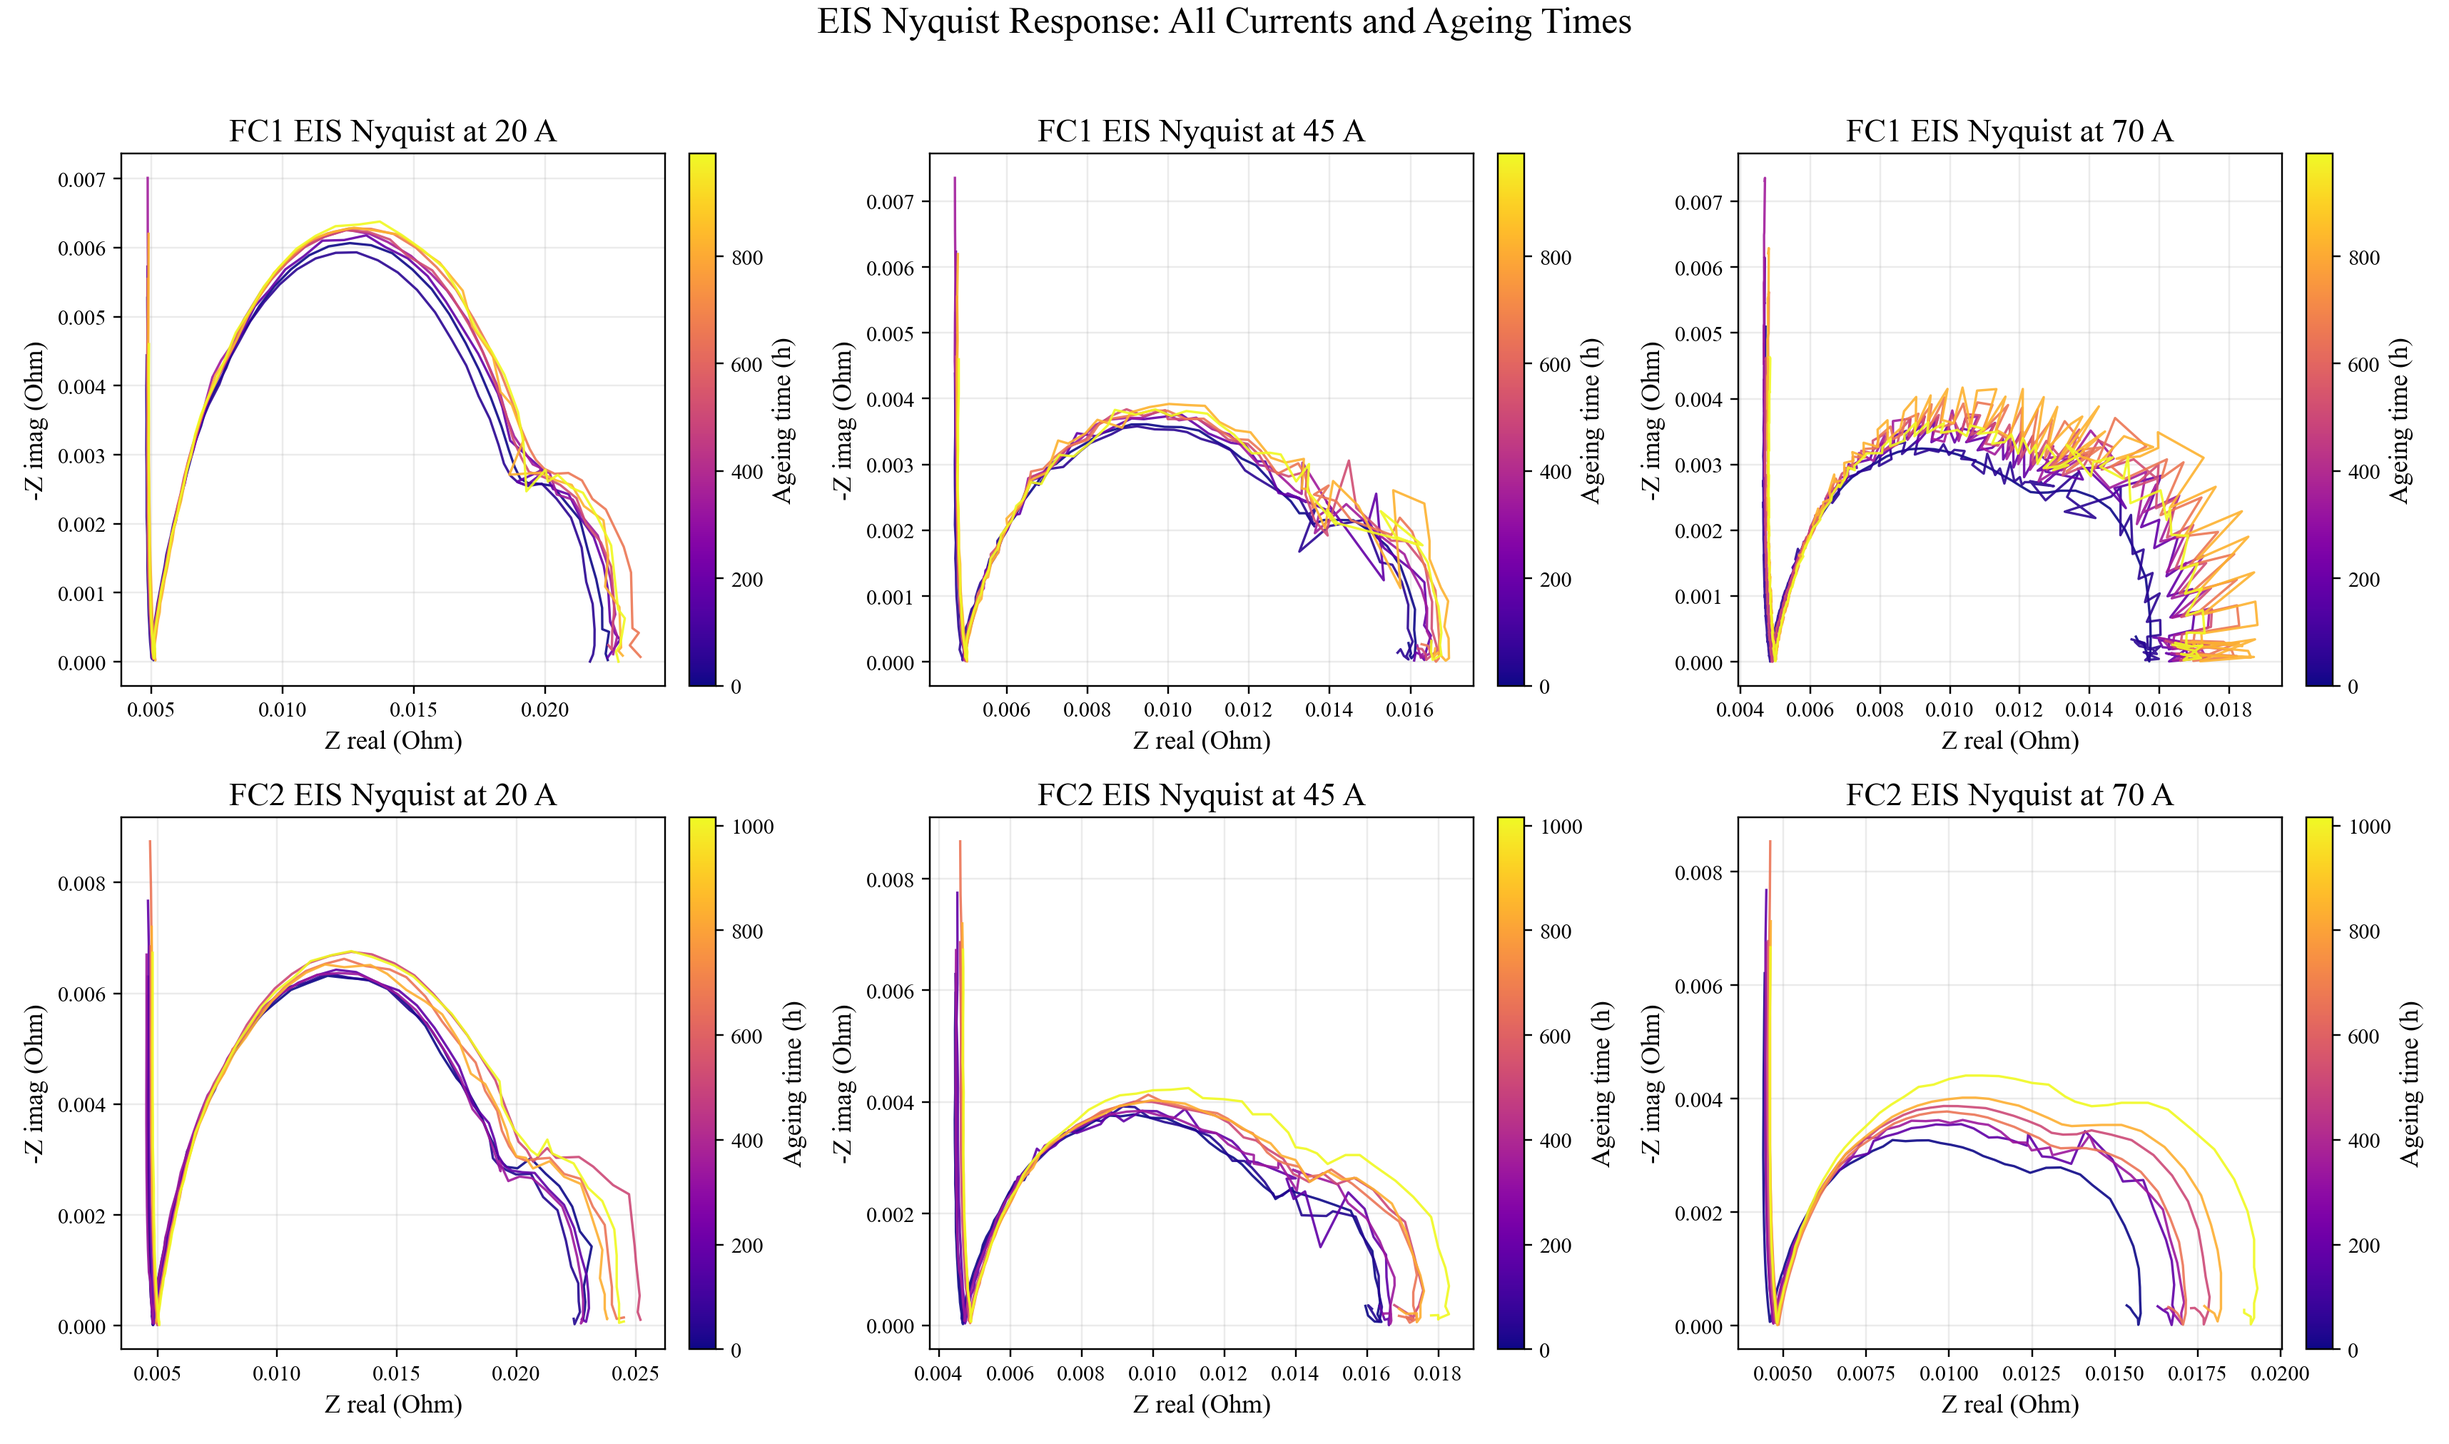
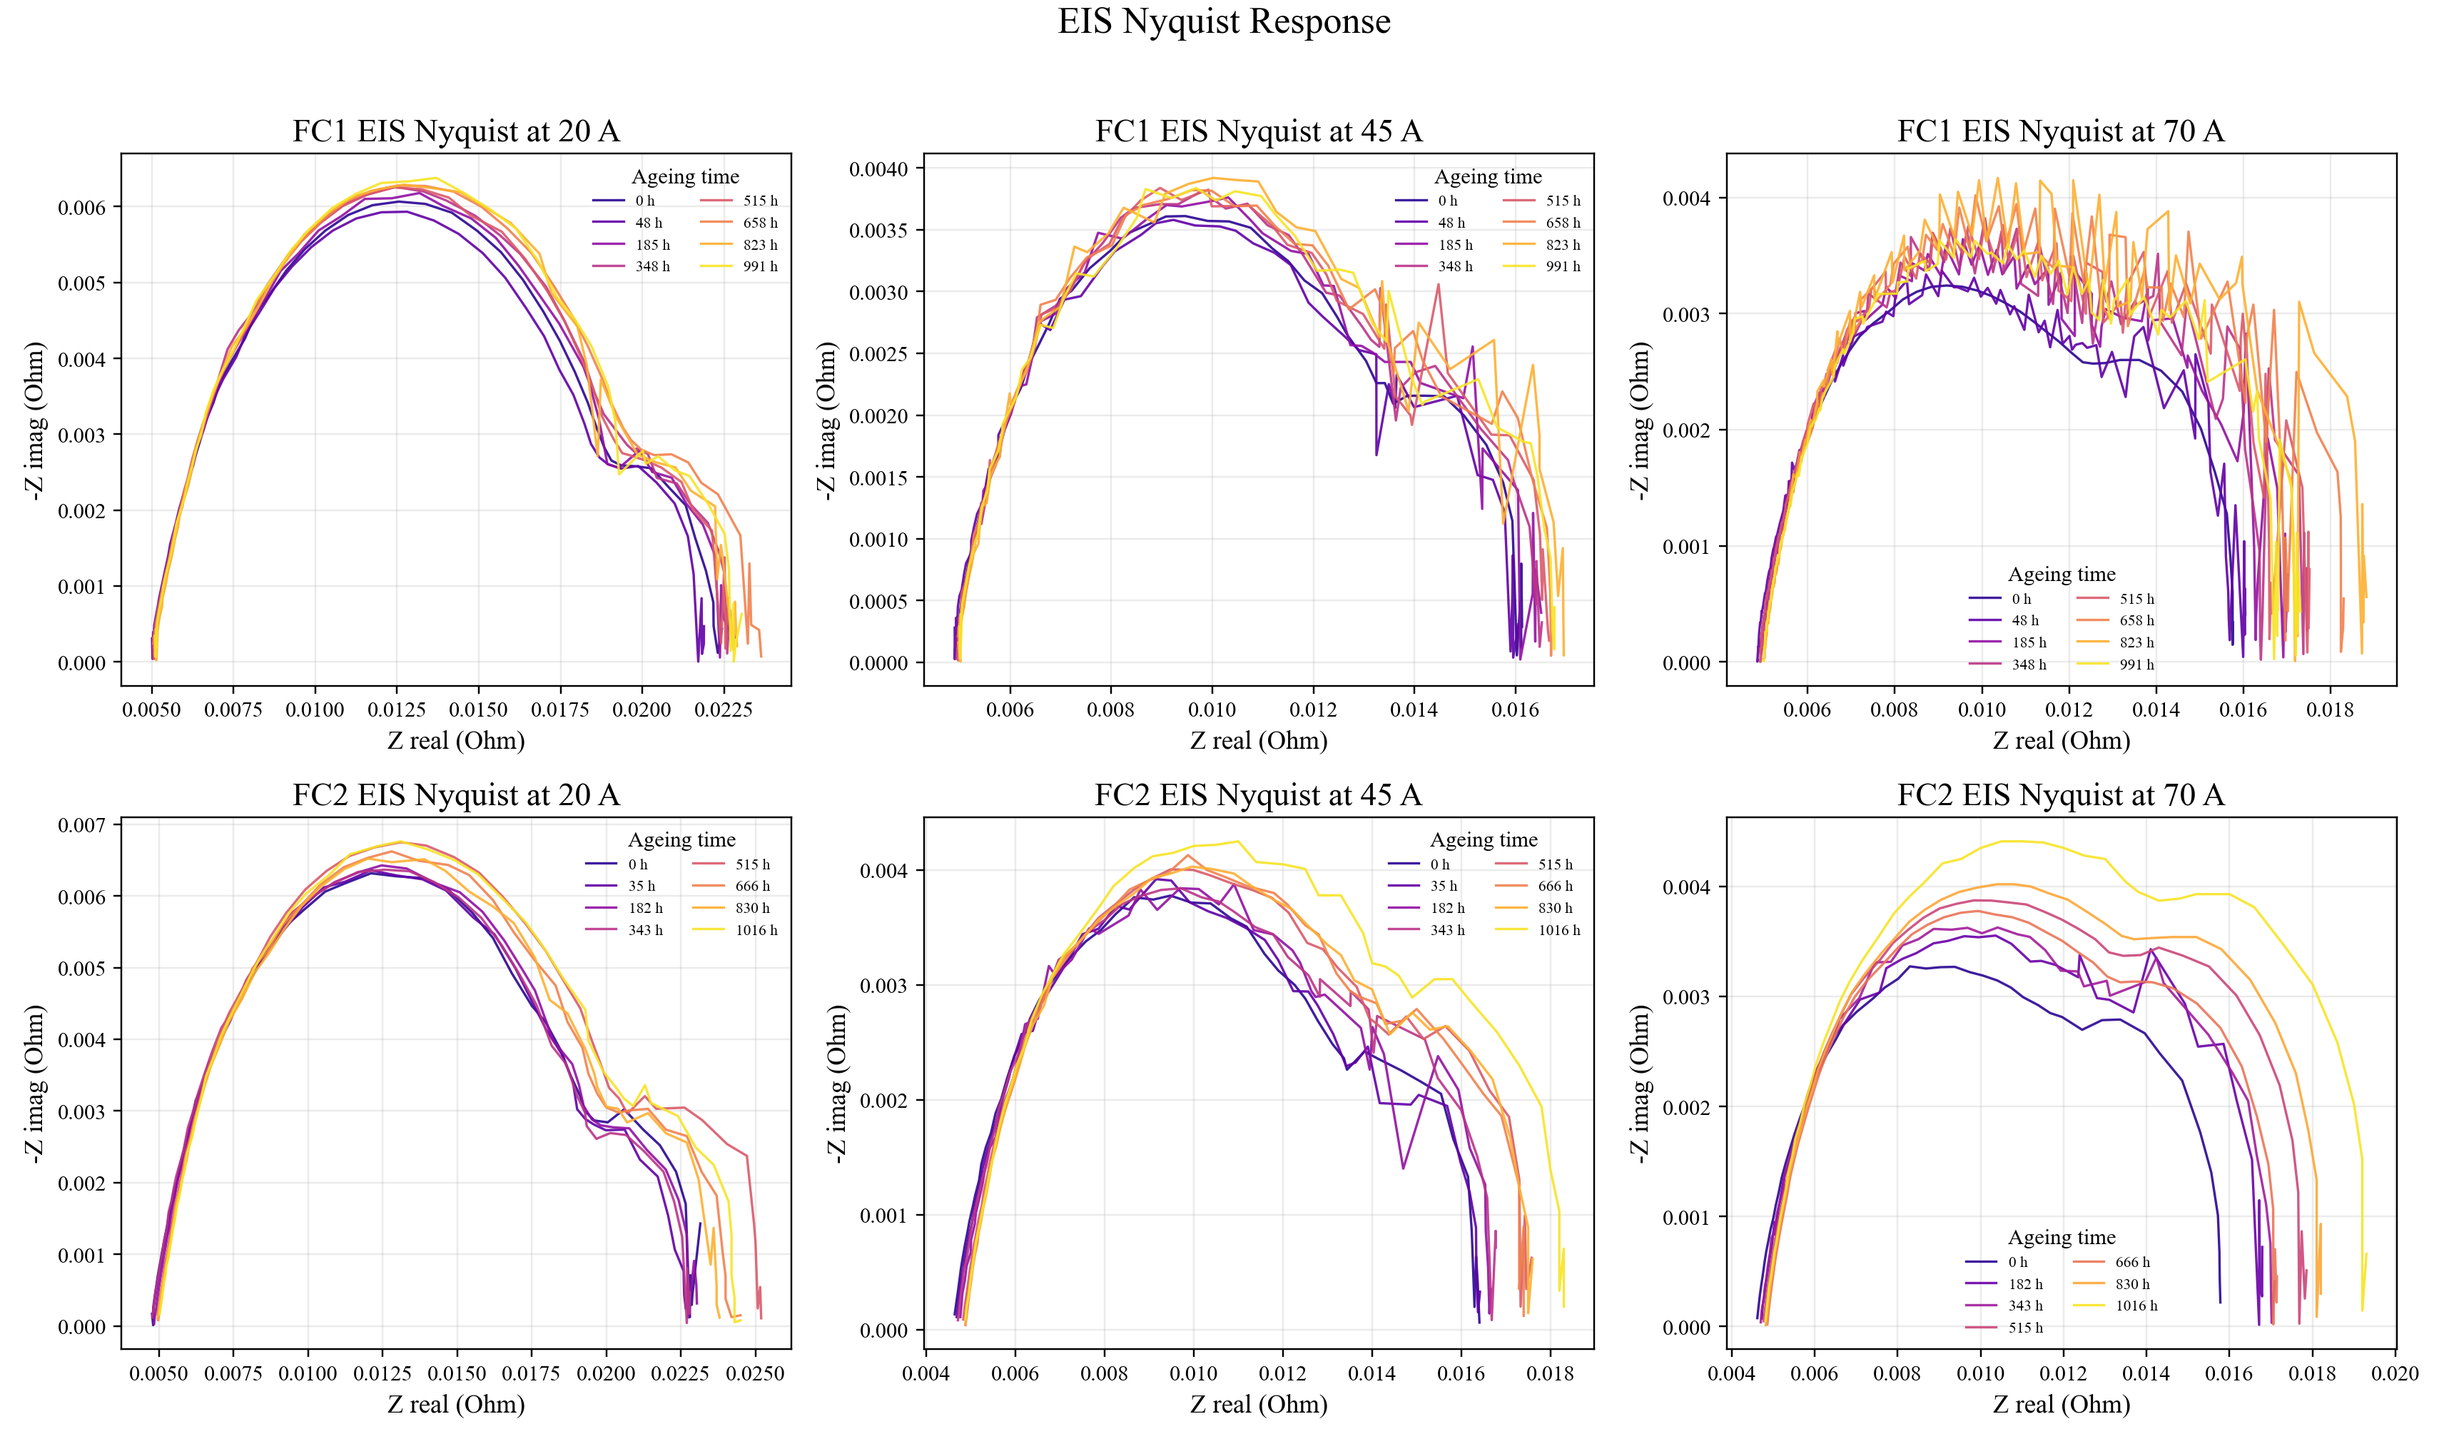
Refine ageing and EIS visualizations

diff --git a/code/analyze_fuel_cell.py b/code/analyze_fuel_cell.py
@@ -1,6 +1,5 @@
 from __future__ import annotations
 
-import math
 import re
 from pathlib import Path
 
@@ -61,6 +60,12 @@ def display_label(label: str) -> str:
         .replace("節캜", "deg C")
         .replace("節?", "2")
     )
+
+
+def safe_filename(label: str) -> str:
+    name = display_label(label)
+    name = re.sub(r"[^A-Za-z0-9]+", "_", name).strip("_")
+    return name.lower()
 
 
 def fuel_cell_from_name(path: Path) -> str:
@@ -182,33 +187,37 @@ def plot_ageing_voltage(ageing: pd.DataFrame) -> None:
     save_figure(fig, "ageing_voltage_degradation.png")
 
 
-def plot_ageing_all_channels(ageing: pd.DataFrame) -> None:
+def plot_ageing_channel_figures(ageing: pd.DataFrame) -> list[tuple[str, str]]:
     numeric_cols = [
         col
         for col in ageing.select_dtypes(include=[np.number]).columns
         if col != "Time (h)"
     ]
-    ncols = 4
-    nrows = math.ceil(len(numeric_cols) / ncols)
-    fig, axes = plt.subplots(nrows, ncols, figsize=(18, 3.0 * nrows), sharex=False)
-    axes = np.ravel(axes)
+    channel_dir = FIGURE_DIR / "ageing_channels"
+    channel_dir.mkdir(parents=True, exist_ok=True)
     colors = {"FC1": "#2563eb", "FC2": "#dc2626"}
+    outputs: list[tuple[str, str]] = []
 
-    for ax, col in zip(axes, numeric_cols):
+    for col in numeric_cols:
+        fig, ax = plt.subplots(figsize=(8.5, 5.2))
         for fc, group in ageing.groupby("Fuel Cell"):
             group = group.sort_values("Time (h)")
             values = group[col].rolling(600, min_periods=1).mean()
-            ax.plot(group["Time (h)"], values, color=colors.get(fc), linewidth=1.0, label=fc)
+            ax.plot(group["Time (h)"], values, color=colors.get(fc), linewidth=1.4, label=fc)
+
         ax.set_title(display_label(col))
         ax.set_xlabel("Time (h)")
-        ax.grid(alpha=0.2)
+        ax.set_ylabel(display_label(col))
+        ax.grid(alpha=0.25)
+        ax.legend(frameon=False)
 
-    for ax in axes[len(numeric_cols) :]:
-        ax.axis("off")
+        filename = f"{safe_filename(col)}.png"
+        fig.tight_layout()
+        fig.savefig(channel_dir / filename, dpi=220)
+        plt.close(fig)
+        outputs.append((display_label(col), f"figures/ageing_channels/{filename}"))
 
-    axes[0].legend(loc="best", frameon=False)
-    fig.suptitle("Ageing Data Overview: All Numeric Channels", y=0.998)
-    save_figure(fig, "ageing_all_channels.png", rect=(0, 0, 1, 0.985))
+    return outputs
 
 
 def plot_polarization(polarization: pd.DataFrame) -> None:
@@ -218,31 +227,42 @@ def plot_polarization(polarization: pd.DataFrame) -> None:
     for ax, (fc, group) in zip(axes, polarization.groupby("Fuel Cell")):
         hours = sorted(group["Test Hour"].unique())
         cmap = plt.get_cmap("viridis")
-        norm = plt.Normalize(min(hours), max(hours))
+        colors = cmap(np.linspace(0.05, 0.95, len(hours)))
 
-        for hour in hours:
+        for hour, color in zip(hours, colors):
             curve = group[group["Test Hour"] == hour].copy()
             curve["J bin"] = curve[j_col].round(2)
             summary = curve.groupby("J bin", as_index=False)["Ustack (V)"].mean()
             ax.plot(
                 summary["J bin"],
                 summary["Ustack (V)"],
-                color=cmap(norm(hour)),
+                color=color,
                 linewidth=1.2,
                 alpha=0.9,
+                label=f"{hour} h",
             )
 
-        ax.set_title(f"{fc} Polarization Curves: All Ageing Times")
+        ax.set_title(f"{fc} Polarization Curves")
         ax.set_xlabel("Current density (A/cm2)")
         ax.grid(alpha=0.25)
-
-        scalar_map = plt.cm.ScalarMappable(cmap=cmap, norm=norm)
-        scalar_map.set_array([])
-        cbar = fig.colorbar(scalar_map, ax=ax, fraction=0.046, pad=0.04)
-        cbar.set_label("Ageing time (h)")
+        ax.legend(title="Ageing time", frameon=False, ncol=2, fontsize=8)
 
     axes[0].set_ylabel("Stack voltage (V)")
     save_figure(fig, "polarization_all_times.png")
+
+
+def capacitive_eis_arc(curve: pd.DataFrame) -> pd.DataFrame:
+    positive = curve[curve["i/oHM"] > 0].copy()
+    negative = curve[curve["i/oHM"] < 0].copy()
+
+    if len(positive) >= len(negative):
+        arc = positive
+        arc["-Z imag (Ohm)"] = arc["i/oHM"]
+    else:
+        arc = negative
+        arc["-Z imag (Ohm)"] = -arc["i/oHM"]
+
+    return arc.sort_values("r/oHM")
 
 
 def plot_eis(eis: pd.DataFrame) -> None:
@@ -256,33 +276,59 @@ def plot_eis(eis: pd.DataFrame) -> None:
             group = eis[(eis["Fuel Cell"] == fc) & (eis["Current (A)"] == current)]
             hours = sorted(group["Test Hour"].unique())
             cmap = plt.get_cmap("plasma")
-            norm = plt.Normalize(min(hours), max(hours))
+            colors = cmap(np.linspace(0.05, 0.95, len(hours)))
 
-            for hour in hours:
-                curve = group[group["Test Hour"] == hour].sort_values("fREQUENCY/hZ")
+            for hour, color in zip(hours, colors):
+                curve = group[group["Test Hour"] == hour]
+                arc = capacitive_eis_arc(curve)
                 ax.plot(
-                    curve["r/oHM"],
-                    curve["i/oHM"].abs(),
-                    color=cmap(norm(hour)),
+                    arc["r/oHM"],
+                    arc["-Z imag (Ohm)"],
+                    color=color,
                     linewidth=1.1,
                     alpha=0.9,
+                    label=f"{hour} h",
                 )
 
             ax.set_title(f"{fc} EIS Nyquist at {current} A")
             ax.set_xlabel("Z real (Ohm)")
             ax.set_ylabel("-Z imag (Ohm)")
             ax.grid(alpha=0.25)
+            ax.legend(title="Ageing time", frameon=False, fontsize=7, ncol=2)
 
-            scalar_map = plt.cm.ScalarMappable(cmap=cmap, norm=norm)
-            scalar_map.set_array([])
-            cbar = fig.colorbar(scalar_map, ax=ax, fraction=0.046, pad=0.04)
-            cbar.set_label("Ageing time (h)")
-
-    fig.suptitle("EIS Nyquist Response: All Currents and Ageing Times", y=0.995)
+    fig.suptitle("EIS Nyquist Response", y=0.995)
     save_figure(fig, "eis_nyquist_all_currents.png", rect=(0, 0, 1, 0.975))
 
 
-def write_results_readme(summary: pd.DataFrame) -> None:
+PARAMETER_DESCRIPTIONS = {
+    "U1 (V)": "Voltage of cell 1.",
+    "U2 (V)": "Voltage of cell 2.",
+    "U3 (V)": "Voltage of cell 3.",
+    "U4 (V)": "Voltage of cell 4.",
+    "U5 (V)": "Voltage of cell 5.",
+    "Utot (V)": "Total stack voltage.",
+    "J (A/cm2)": "Current density normalized by active area.",
+    "I (A)": "Stack current.",
+    "TinH2 (deg C)": "Hydrogen inlet temperature.",
+    "ToutH2 (deg C)": "Hydrogen outlet temperature.",
+    "TinAIR (deg C)": "Air inlet temperature.",
+    "ToutAIR (deg C)": "Air outlet temperature.",
+    "TinWAT (deg C)": "Cooling-water inlet temperature.",
+    "ToutWAT (deg C)": "Cooling-water outlet temperature.",
+    "PinAIR (mbara)": "Air inlet absolute pressure.",
+    "PoutAIR (mbara)": "Air outlet absolute pressure.",
+    "PoutH2 (mbara)": "Hydrogen outlet absolute pressure.",
+    "PinH2 (mbara)": "Hydrogen inlet absolute pressure.",
+    "DinH2 (l/mn)": "Hydrogen inlet flow rate.",
+    "DoutH2 (l/mn)": "Hydrogen outlet flow rate.",
+    "DinAIR (l/mn)": "Air inlet flow rate.",
+    "DoutAIR (l/mn)": "Air outlet flow rate.",
+    "DWAT (l/mn)": "Cooling-water flow rate.",
+    "HrAIRFC (%)": "Relative humidity of the air feed.",
+}
+
+
+def write_results_readme(summary: pd.DataFrame, ageing_figures: list[tuple[str, str]]) -> None:
     rounded = summary.round(4)
     header = "| " + " | ".join(rounded.columns) + " |"
     divider = "| " + " | ".join(["---"] * len(rounded.columns)) + " |"
@@ -304,9 +350,22 @@ def write_results_readme(summary: pd.DataFrame) -> None:
         "## Figures",
         "",
         "- `figures/ageing_voltage_degradation.png`: stack voltage and cell imbalance during ageing",
-        "- `figures/ageing_all_channels.png`: overview of every numeric ageing channel",
+        "- `figures/ageing_channels/`: individual ageing plots for every numeric channel",
         "- `figures/polarization_all_times.png`: polarization curves at every available ageing time",
         "- `figures/eis_nyquist_all_currents.png`: EIS Nyquist curves for every available current and ageing time",
+        "",
+        "## Ageing Parameter Notes",
+        "",
+        "| Parameter | Meaning |",
+        "| --- | --- |",
+        *[
+            f"| {parameter} | {PARAMETER_DESCRIPTIONS.get(parameter, 'Recorded operating variable.')} |"
+            for parameter, _path in ageing_figures
+        ],
+        "",
+        "## Individual Ageing Figures",
+        "",
+        *[f"- `{path}`: {parameter}" for parameter, path in ageing_figures],
         "",
     ]
     (RESULTS_DIR / "README.md").write_text("\n".join(lines), encoding="utf-8")
@@ -324,10 +383,10 @@ def main() -> None:
     summary.to_csv(RESULTS_DIR / "ageing_summary.csv", index=False)
 
     plot_ageing_voltage(ageing)
-    plot_ageing_all_channels(ageing)
+    ageing_figures = plot_ageing_channel_figures(ageing)
     plot_polarization(polarization)
     plot_eis(eis)
-    write_results_readme(summary)
+    write_results_readme(summary, ageing_figures)
 
     print("Analysis complete")
     print(summary.to_string(index=False))

diff --git a/results/README.md b/results/README.md
@@ -12,6 +12,62 @@ This folder contains generated outputs from `code/analyze_fuel_cell.py`.
 ## Figures
 
 - `figures/ageing_voltage_degradation.png`: stack voltage and cell imbalance during ageing
-- `figures/ageing_all_channels.png`: overview of every numeric ageing channel
+- `figures/ageing_channels/`: individual ageing plots for every numeric channel
 - `figures/polarization_all_times.png`: polarization curves at every available ageing time
 - `figures/eis_nyquist_all_currents.png`: EIS Nyquist curves for every available current and ageing time
+
+## Ageing Parameter Notes
+
+| Parameter | Meaning |
+| --- | --- |
+| U1 (V) | Voltage of cell 1. |
+| U2 (V) | Voltage of cell 2. |
+| U3 (V) | Voltage of cell 3. |
+| U4 (V) | Voltage of cell 4. |
+| U5 (V) | Voltage of cell 5. |
+| Utot (V) | Total stack voltage. |
+| J (A/cm2) | Current density normalized by active area. |
+| I (A) | Stack current. |
+| TinH2 (deg C) | Hydrogen inlet temperature. |
+| ToutH2 (deg C) | Hydrogen outlet temperature. |
+| TinAIR (deg C) | Air inlet temperature. |
+| ToutAIR (deg C) | Air outlet temperature. |
+| TinWAT (deg C) | Cooling-water inlet temperature. |
+| ToutWAT (deg C) | Cooling-water outlet temperature. |
+| PinAIR (mbara) | Air inlet absolute pressure. |
+| PoutAIR (mbara) | Air outlet absolute pressure. |
+| PoutH2 (mbara) | Hydrogen outlet absolute pressure. |
+| PinH2 (mbara) | Hydrogen inlet absolute pressure. |
+| DinH2 (l/mn) | Hydrogen inlet flow rate. |
+| DoutH2 (l/mn) | Hydrogen outlet flow rate. |
+| DinAIR (l/mn) | Air inlet flow rate. |
+| DoutAIR (l/mn) | Air outlet flow rate. |
+| DWAT (l/mn) | Cooling-water flow rate. |
+| HrAIRFC (%) | Relative humidity of the air feed. |
+
+## Individual Ageing Figures
+
+- `figures/ageing_channels/u1_v.png`: U1 (V)
+- `figures/ageing_channels/u2_v.png`: U2 (V)
+- `figures/ageing_channels/u3_v.png`: U3 (V)
+- `figures/ageing_channels/u4_v.png`: U4 (V)
+- `figures/ageing_channels/u5_v.png`: U5 (V)
+- `figures/ageing_channels/utot_v.png`: Utot (V)
+- `figures/ageing_channels/j_a_cm2.png`: J (A/cm2)
+- `figures/ageing_channels/i_a.png`: I (A)
+- `figures/ageing_channels/tinh2_deg_c.png`: TinH2 (deg C)
+- `figures/ageing_channels/touth2_deg_c.png`: ToutH2 (deg C)
+- `figures/ageing_channels/tinair_deg_c.png`: TinAIR (deg C)
+- `figures/ageing_channels/toutair_deg_c.png`: ToutAIR (deg C)
+- `figures/ageing_channels/tinwat_deg_c.png`: TinWAT (deg C)
+- `figures/ageing_channels/toutwat_deg_c.png`: ToutWAT (deg C)
+- `figures/ageing_channels/pinair_mbara.png`: PinAIR (mbara)
+- `figures/ageing_channels/poutair_mbara.png`: PoutAIR (mbara)
+- `figures/ageing_channels/pouth2_mbara.png`: PoutH2 (mbara)
+- `figures/ageing_channels/pinh2_mbara.png`: PinH2 (mbara)
+- `figures/ageing_channels/dinh2_l_mn.png`: DinH2 (l/mn)
+- `figures/ageing_channels/douth2_l_mn.png`: DoutH2 (l/mn)
+- `figures/ageing_channels/dinair_l_mn.png`: DinAIR (l/mn)
+- `figures/ageing_channels/doutair_l_mn.png`: DoutAIR (l/mn)
+- `figures/ageing_channels/dwat_l_mn.png`: DWAT (l/mn)
+- `figures/ageing_channels/hrairfc.png`: HrAIRFC (%)

diff --git a/README.md b/README.md
@@ -43,9 +43,9 @@ FC2 shows a larger voltage loss and a faster degradation rate than FC1, consiste
 
 ![Ageing voltage degradation](results/figures/ageing_voltage_degradation.png)
 
-### Ageing Data Overview
+### Individual Ageing Channels
 
-![Ageing data overview](results/figures/ageing_all_channels.png)
+Individual ageing-channel figures are saved under [`results/figures/ageing_channels/`](results/figures/ageing_channels/). Parameter meanings are summarized in [`results/README.md`](results/README.md).
 
 ### Polarization Curve Evolution
 
